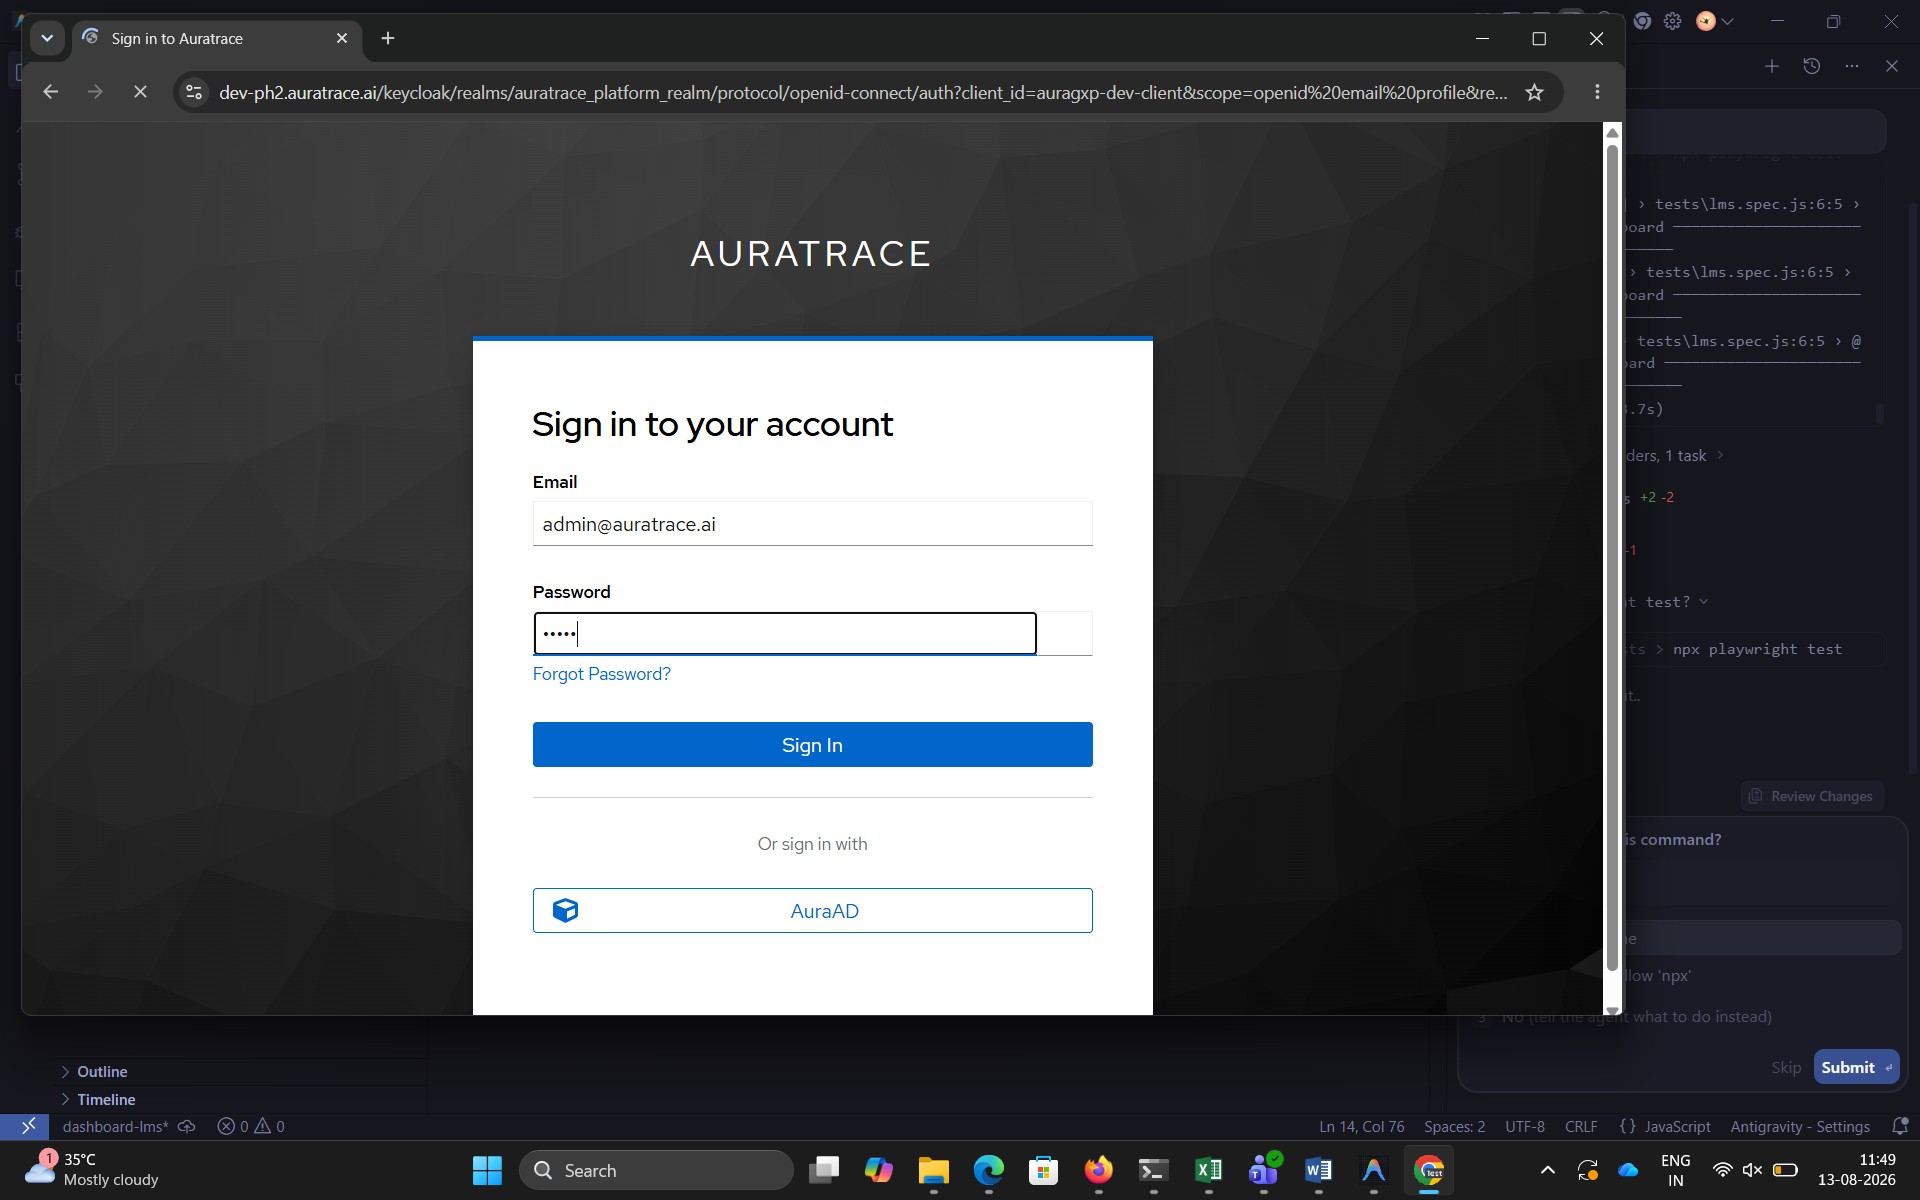
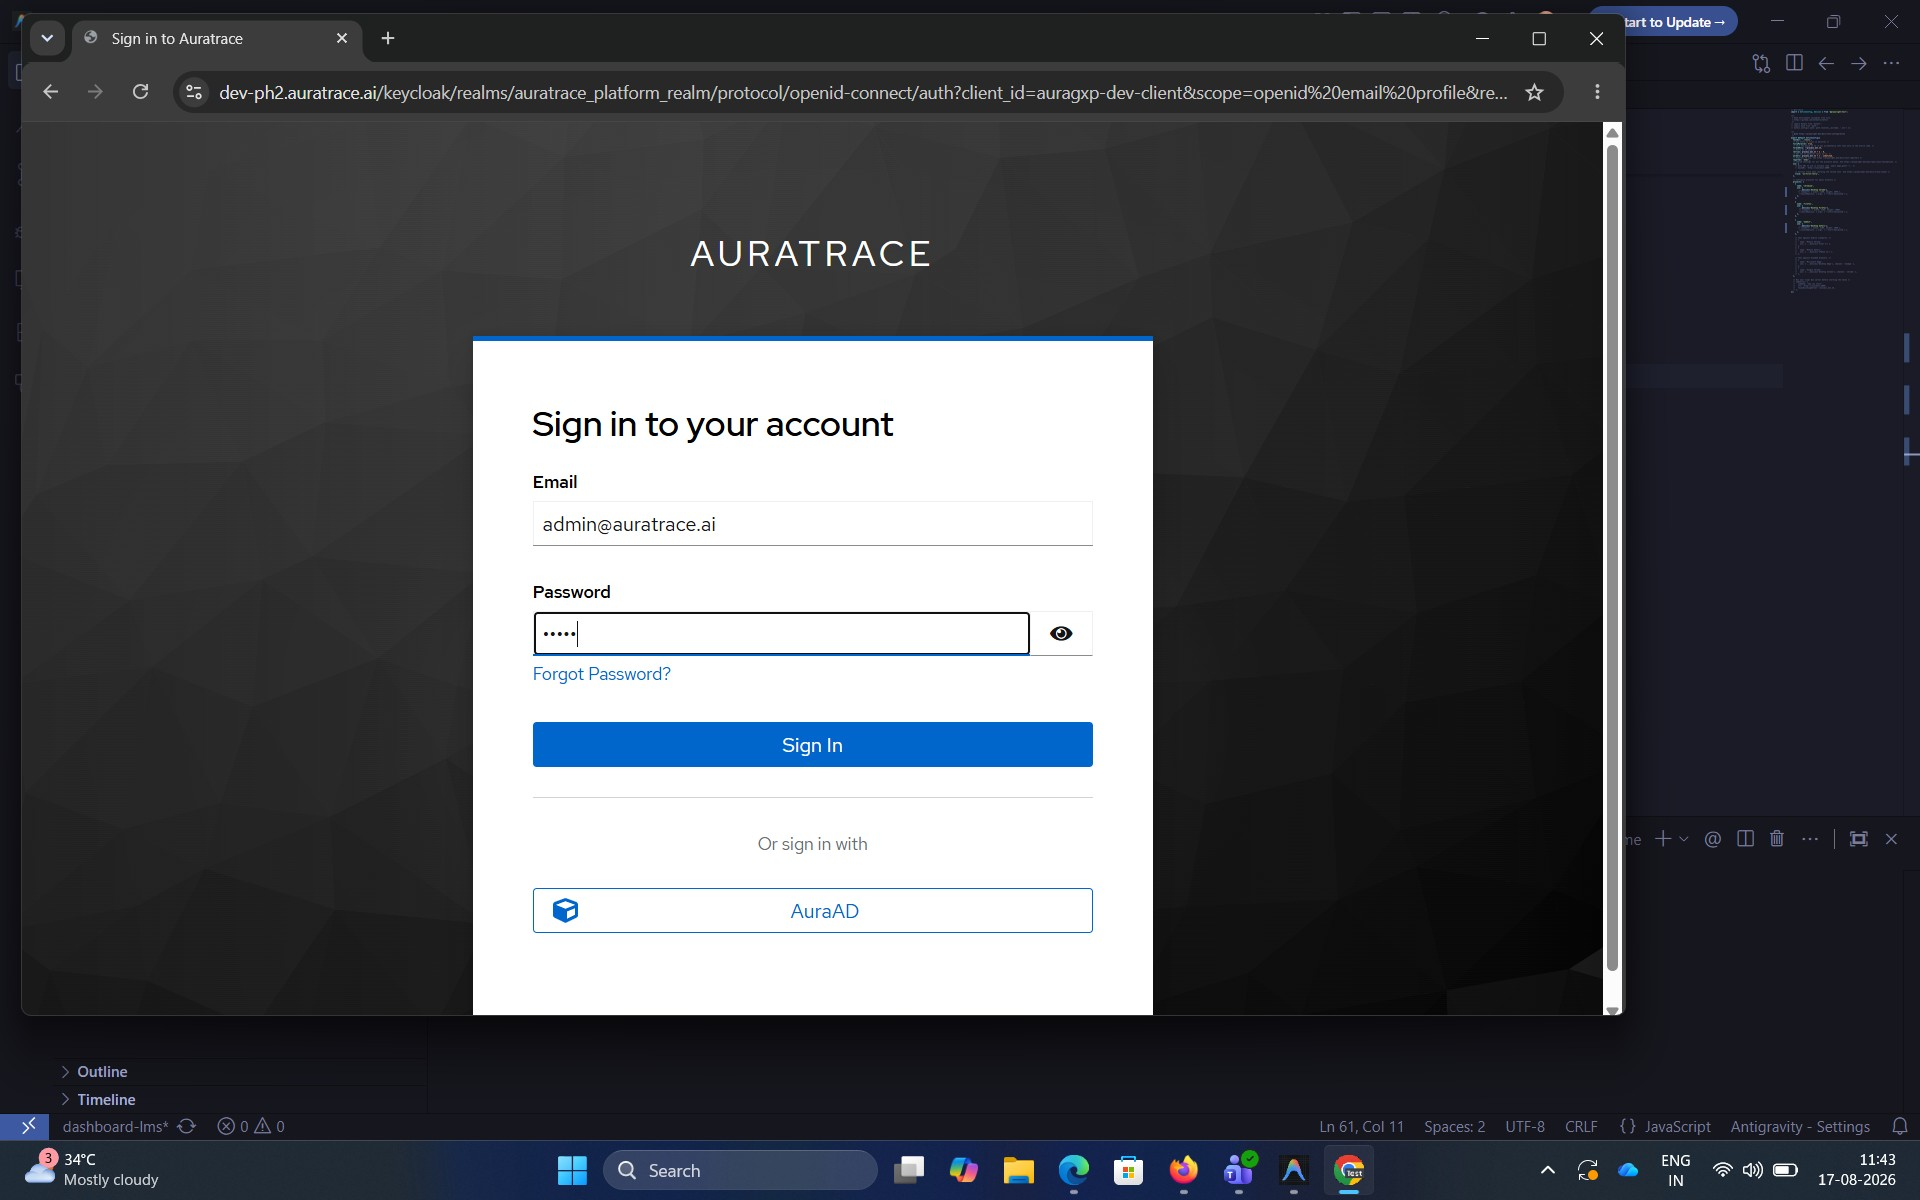
fix:dashboard

diff --git a/playwright.config.js b/playwright.config.js
@@ -37,17 +37,29 @@ export default defineConfig({
   projects: [
     {
       name: 'chromium',
-      use: { ...devices['Desktop Chrome'] },
+      use: {
+        ...devices['Desktop Chrome'],
+       // viewport: { width: 1200, height: 1980 },
+        //launchOptions: { args: ['--start-maximized'] },
+      },
     },
 
     {
       name: 'firefox',
-      use: { ...devices['Desktop Firefox'] },
+      use: {
+        ...devices['Desktop Firefox'],
+        // viewport: { width: 1200, height: 1980},
+        //launchOptions: { args: ['--start-maximized'] },
+      },
     },
 
     {
       name: 'webkit',
-      use: { ...devices['Desktop Safari'] },
+      use: {
+        ...devices['Desktop Safari'],
+       // viewport: { width: 1200, height: 1980 },
+        //launchOptions: { args: ['--start-maximized'] },
+      },
     },
 
     /* Test against mobile viewports. */
